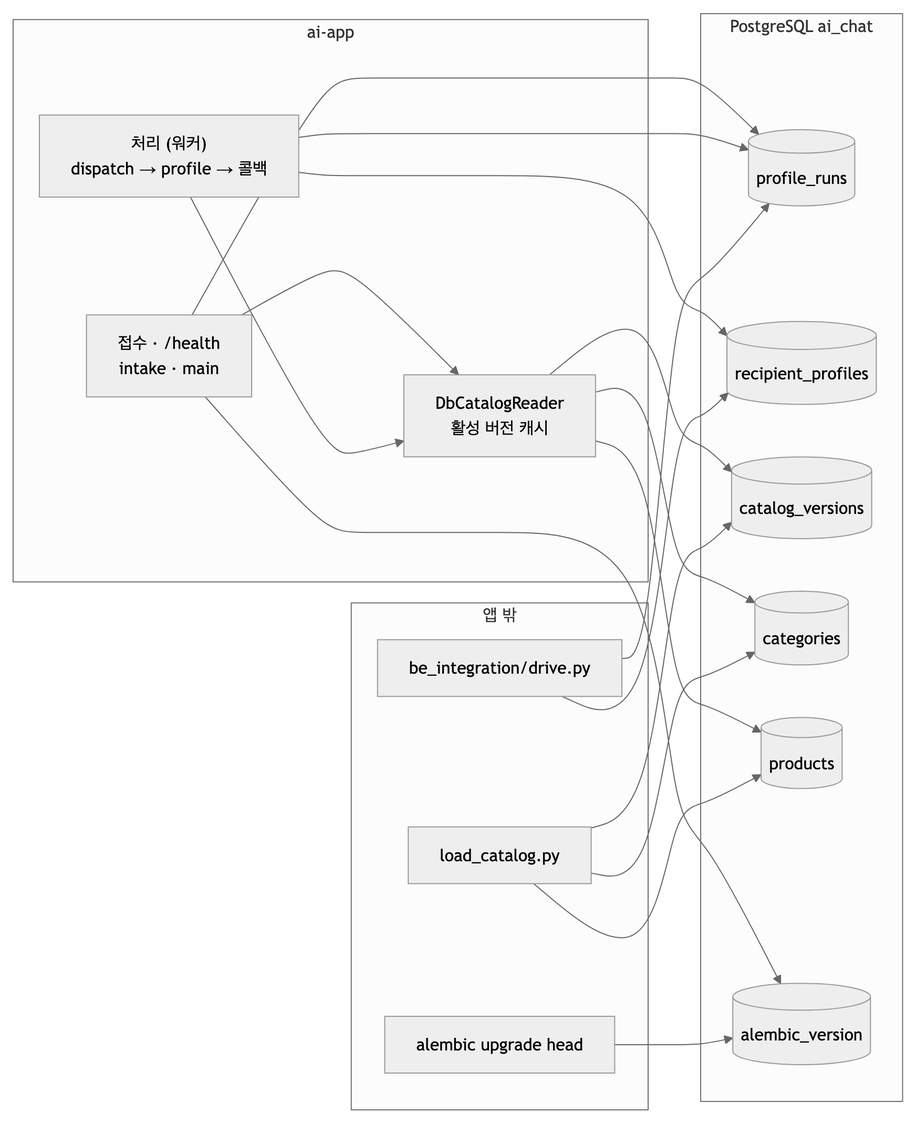
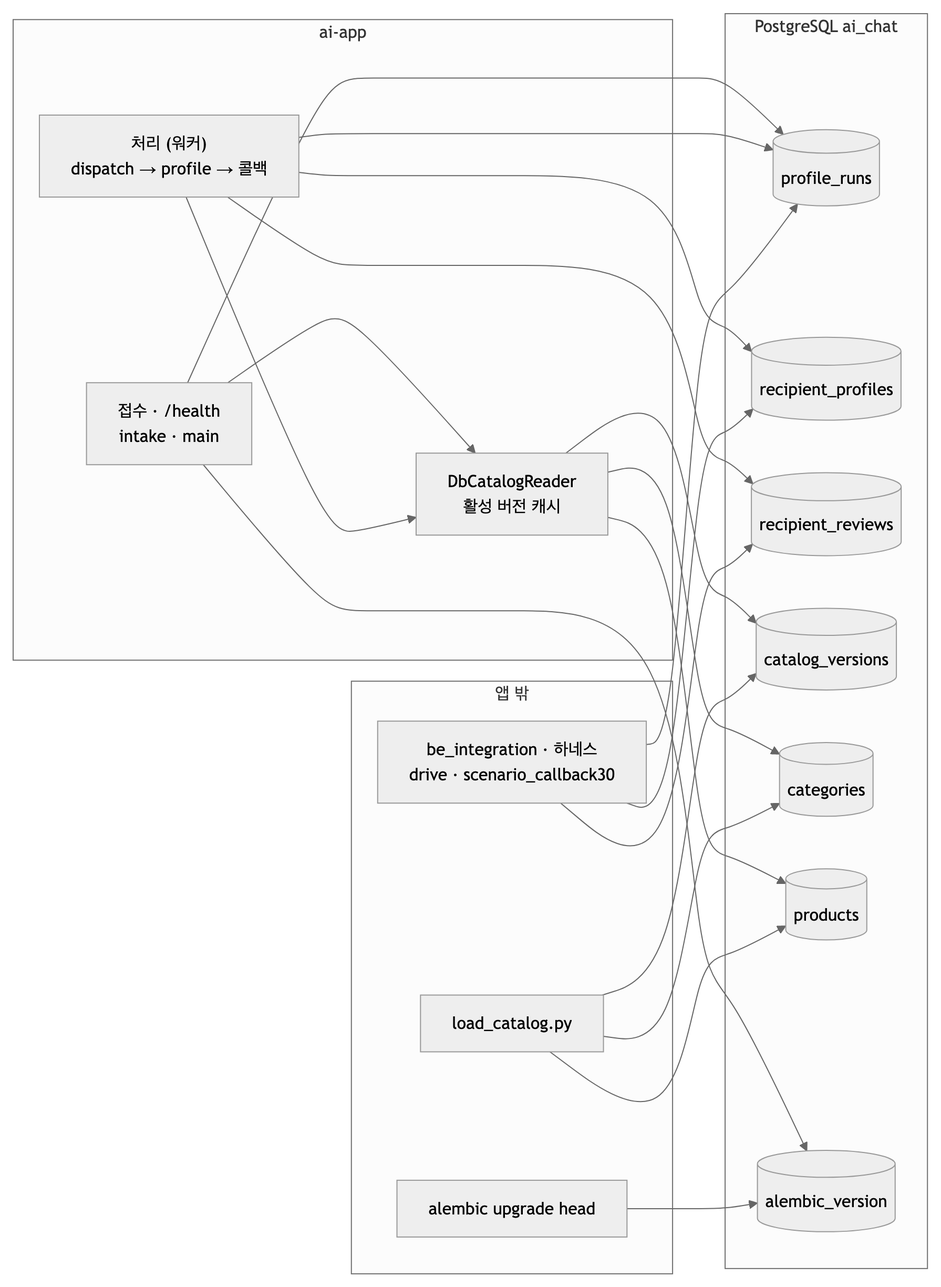
docs(profiling): 하네스 구조와 결과 · 로컬 LLM 서비스 경로 시험 · DB ERD 10-12 갱신
- 하네스 구조 · 판정 방식 그림과 결과 상세, 로컬 LLM(gemma4:12b · qwen3.5:9b) 서비스 경로 결과
- DB_ERD: 리뷰 표 포함 일곱 표, D 고르기 · 임베딩 기동 SELECT, 시험 도구별 수신자 번호대, 0006 필요
- 코드 안내서: 태그 추출 · 토큰 사용량 · tag_extract 로그 형식, 보고서 · 문서 목록 갱신

diff --git a/profiling/docs/하네스_구조와_결과_2026-10-12.md b/profiling/docs/하네스_구조와_결과_2026-10-12.md
@@ -1,0 +1,176 @@
+# 30개 콜백 검증 하네스 — 구조와 결과 (2026-10-12)
+
+| | |
+|---|---|
+| 대상 | AI 저장소 `profiling/` — `feat/v2-profiling-init` @ `a637e45` + 작업 트리(D 코어 · 태그 추출 · 리뷰한 상품 미추천 · 하네스 개선, **미커밋**) |
+| 하네스 | `tools/scenario_callback30/` — `run.py`(실행 · 검사 · 출력) · `verify_d.py`(D 독립 판정) · `scenarios.xlsx`(가상 사용자 10명 · 리뷰 · 태그 · 기대 45행) · `golden_d.json`(기준 파일) |
+| 이번 판에서 바뀐 것 | ① **D 독립 판정**(selection 을 부르지 않고 명세 수식으로) ② **기대값을 설정별로**(조건 · 등급 · 성격) ③ **리뷰한 상품 미추천** 검사 ④ 입력 변형 · 기준 파일 |
+| 결과 한 줄 | 세 설정 모두 **필수 검사 전부 통과**(태그 끔 448 · gemma4:12b 462 · qwen3.5:9b 462). 관찰(품질)은 gemma **44/44** · qwen **28/44** — 품질 차이가 계약 실패와 섞이지 않고 따로 보인다. 일부러 심은 D 버그 두 가지를 독립 판정이 **10/10 · 7/7** 잡았다(기존 재현성 검사는 둘 다 못 잡음) |
+
+---
+
+## 1. 구조
+
+<!-- fig: 01-하네스-구조 -->
+```mermaid
+flowchart LR
+  X["scenarios.xlsx<br/>사용자 · 리뷰 · 기대"]
+  R["run.py<br/>run_mode()"]
+  APP["앱 전체(TestClient)<br/>intake → Supervisor → profile()"]
+  LLM["태그 추출(선택)<br/>_SpyTagger → Ollama"]
+  EMB["임베딩(선택)<br/>ProductSearchEmbedding"]
+  BE["가짜 BE<br/>MockTransport · 7.7 기록"]
+  DB[("PostgreSQL<br/>실행 기록 · 프로필 · 리뷰")]
+  CK["검사<br/>check_run()"]
+  VD["D 독립 판정<br/>verify_d.verify()"]
+  G[("golden_d.json<br/>기준 파일")]
+  O["화면 + out/<br/>xlsx · json"]
+  X --> R --> APP
+  APP --> LLM
+  APP --> EMB
+  APP --> DB
+  APP -->|7.7| BE
+  BE --> CK
+  DB --> CK
+  R --> VD --> CK
+  G --> CK
+  CK --> O
+```
+
+![하네스 구조](assets/harness/01-하네스-구조.png)
+
+| 조각 | 하는 일 |
+|---|---|
+| `run_mode()` | 설정(태그 끔/켬 · 모델 · 임베딩)을 환경변수로 넣고 앱 전체를 띄운다. 사람마다 7.6 을 보내고, **진짜 `HttpBackendPort`가 보낸 7.7 요청**을 가짜 BE 가 받아 기록. 태그 추출기는 `_SpyTagger` 로 감싸 LLM 원출력을 기록(DB 엔 아직 태그 축 · 프롬프트판이 없어서 — 0006) |
+| `check_run()` | 사람 × 모드마다 검사를 모은다 — 아래 §2 |
+| `verify_d.verify()` | **`profiling.selection` 을 부르지 않고** 명세 수식(코어 공유 문서 §2 ⑤~⑧)만으로 콜백 30개를 판정 |
+| `golden_d.json` | 태그 끔 · D 의 콜백 30개(10명 × 2모드). 다르면 의도된 변경인지 사람이 본다(`--save-golden` 으로 갱신) |
+
+### 판정 방식 — 무엇이 무엇과 독립인가
+
+<!-- fig: 02-판정-방식 -->
+```mermaid
+flowchart TB
+  S["서비스가 보낸 30개<br/>(콜백)"]
+  I["독립 재계산<br/>점수 공식 · 소분류 편향"]
+  V["명세 판정 verify_d<br/>MMR · 채우기 · 상수"]
+  P["불변식<br/>비선호 · 상한<br/>중복 · 리뷰 상품"]
+  M["입력 변형<br/>결정성 · 비선호 추가"]
+  C["같은 코드 대조<br/>재현성 — 배선만"]
+  E["시나리오 기대<br/>조건 · 등급 · 성격"]
+  S --> I
+  S --> V
+  S --> P
+  S --> M
+  S --> C
+  S --> E
+```
+
+![판정 방식](assets/harness/02-판정-방식.png)
+
+## 2. 검사 목록
+
+| 묶음 | 검사 | 판정 방식 | 언제 |
+|---|---|---|---|
+| **자동(기본)** | 7.6 202 · 7.7 1회 · 경로 · 토큰 · 본문 계약(모르는 필드 금지) · 30개 · 중복 없음 · 카탈로그 · 재고 · 비선호(제외 0 / 감점 뒤에만 / D 는 모자랄 때만) · 한 소분류 ≤ 10 · 같은 모델 하나 · **리뷰한 상품 미추천** · 소분류 편향 독립 재계산 · 점수 공식 독립 재계산(오차 < 1e-9) · 저장 점수 · 리뷰 행 · 원문 미저장 · DELIVERED · 재현성(콜백 = 실행 기록 = `make_pool`) · (태그 켬) 저장 태그 = 원출력 재생성 | 독립 재계산 · 불변식 · (재현성만) 같은 코드 대조 | 언제나 |
+| **D 독립 판정** | ① 상수 = 명세(λ 0.7 · 한 소분류 10 · 태그당 50 · 유사도 2 · 특징 ½) ② **MMR 단계**: 고른 상품마다 그 시점 받아들일 수 있는 후보 중 MMR 최대 ③ **채우기 단계**: 점수 순서 · 상한 → 상한 없이 → 비선호 | 명세 판정 | D 일 때(② 는 태그 있을 때) |
+| **입력 변형** | 같은 입력 두 번 → 같은 30개 · 비선호 대분류 하나 추가 → 그 대분류 상품이 사라짐 | 관계 판정 | D 일 때(비선호가 이미 5개면 추가 생략) |
+| **기대 — 필수** | 계약(비선호 대분류 0 · 모드간 동일 · 순위 앞섬) · 별점(1~2점 소분류 30개 밖) · 회귀(태그 끔: 5점 소분류 상위 10 · 조회수순) | 시나리오 | 조건이 맞을 때 |
+| **기대 — 관찰** | 태그품질(태그 포함 · 제외 · 없음) · 취향(소분류 · 캐릭터 상품 개수) · 섞임(소분류 종수) · 회귀(기준 파일) | 시나리오 | 태그 켬(기준 파일은 태그 끔) |
+
+**등급:** 필수가 하나라도 실패하면 하네스 실패(종료 코드 1, 통합 시험 실패). 관찰은 보고만 — 모델 · 프롬프트 품질 비교용.
+
+## 3. 결과
+
+### 3.1 설정별 요약 (20건 = 10명 × 제외 · 감점)
+
+| 설정 | 필수 | 관찰 | 서버 처리 p75 · p90 · p95 · 최대 | 7.6 → 7.7 p95 |
+|---|---|---|---|---|
+| 태그 끔 | **448/448** | 20/20(기준 파일) | 17.9 · 18.4 · 19.0 · 19.2 ms | 23.1 ms |
+| gemma4:12b | **462/462** | **44/44** | 13.4 · 14.1 · 15.3 · 16.2 초 | 15.3 초 |
+| qwen3.5:9b | **462/462** | **28/44** | 6.6 · 6.8 · 7.2 · 7.9 초 | 7.2 초 |
+
+필수가 태그 켬에서 14개 많은 이유: MMR 단계 독립 판정(태그 있는 7명 × 2모드).
+
+### 3.2 검사 묶음별
+
+| 묶음 | 태그 끔 | gemma4:12b | qwen3.5:9b |
+|---|---|---|---|
+| 자동(기본) | 330/330 | 348/348 | 348/348 |
+| D 독립 · 상수 | 20/20 | 20/20 | 20/20 |
+| D 독립 · MMR 단계 | — | 14/14 | 14/14 |
+| D 독립 · 채우기 단계 | 20/20 | 20/20 | 20/20 |
+| 입력 변형 | 38/38 | 38/38 | 38/38 |
+| 필수 · 계약 | 10/10 | 10/10 | 10/10 |
+| 필수 · 별점 | 12/12 | 12/12 | 12/12 |
+| 필수 · 회귀(태그 끔) | 18/18 | — | — |
+| 관찰 · 태그품질 | — | **26/26** | **16/26** |
+| 관찰 · 취향 | — | **16/16** | **10/16** |
+| 관찰 · 섞임 | — | 2/2 | 2/2 |
+| 관찰 · 회귀(기준 파일) | 20/20 | — | — |
+
+### 3.3 사람별 (감점 모드)
+
+| 사람 | 태그 끔: 종수 / 최다 | gemma4:12b 태그 | 종수 / 최다 | qwen3.5:9b 태그 | 종수 / 최다 |
+|---|---|---|---|---|---|
+| U01 뷰티 | 10 / 향수 10 | 특징:은은한 향 · 향수 | 5 / 향수 10 | 특징:은은한 향 · 특징:산뜻함 | 9 / 향수 10 |
+| U02 디지털 | 11 / 모바일·PC 10 | 특징:노이즈캔슬링 · 헤드폰 · 노트북 거치대 | 8 / 영상·음향 10 | 특징:노이즈캔슬링 · 특징:튼튼함 | 10 / 영상·음향 10 |
+| U03 신생아 | 16 / 출산·육아 10 | 출산선물세트 · 특징:부드러운 소재 · 특징:백색소음 | 13 / 출산·육아 10 | 특징:부드러운 소재 · 특징:잠자기 좋은 기능 | 13 / 출산·육아 5 |
+| U04 캐릭터 | 3 / 스포츠·레저 10 | IP:춘식이 · IP:한교동 · IP:산리오 | **17** / 생활가전 4 | IP:춘식이 · IP:한교동 | 15 / 정육·수산 4 |
+| U05 홈카페 | 11 / 커피·차 10 | 특징:달달한 디저트 · 커피 · 케이크 · 차 선물세트 | 11 / 커피·차 10 | 디저트 · 커피 · 차 | 9 / 커피·차 10 |
+| U06 콜드 스타트 | 21 / 3 | (없음) | 21 / 3 | 특징:실용적 | 15 / 6 |
+| U07 까다로운 | 21 / 3 | (없음) | 21 / 3 | (없음) | 21 / 3 |
+| U08 비선호 꽉 | 15 / 6 | (LLM 미호출) | 15 / 6 | (LLM 미호출) | 15 / 6 |
+| U09 비선호 vs 리뷰 | 21 / 3 | 브랜드:조말론런던 · 향수 | 15 / **홈프래그런스 9** | **(없음 — 놓침)** | 21 / 3 |
+| U10 엣지 | 17 / 영상·음향 10 | 브랜드:소니 · 헤드폰 | 8 / 영상·음향 10 | 특징:노이즈캔슬링 | 10 / 영상·음향 10 |
+
+모든 실행에서 리뷰한 상품 0개 · 비선호 0개 · 한 소분류 ≤ 10 · 같은 모델 중복 0.
+
+### 3.4 qwen3.5:9b 관찰 실패(두 모드 같음 — 8종 × 2)
+
+| 사람 | 기대 | 실제 |
+|---|---|---|
+| U01 | 태그에 "향수" | 은은한 향 · 산뜻함 — 품목 없음 |
+| U02 | 태그에 "노트북 · 거치대" | 노이즈캔슬링 · 튼튼함 |
+| U02 | 모바일·PC 30개 중 3개 이상 | **0개** |
+| U03 | 태그에 출산 · 아기 · 신생아 · 유아 | 부드러운 소재 · 잠자기 좋은 기능 |
+| U03 | 출산·육아 30개 중 8개 이상 | 5개 |
+| U09 | 태그에 향수 · 조말론 | **태그 없음** |
+| U09 | 홈프래그런스 5개 이상 | 0개(태그가 없어 태그 없는 D 로) |
+| U10 | 태그에 헤드폰 · 소니 | 노이즈캔슬링 |
+
+공통 원인: 품목 · 브랜드 태그를 내지 않고 범용 특징만 냄 → 5점 신호를 잃음(로컬 LLM 시험 결과 §4.3 과 같음).
+
+## 4. 하네스가 버그를 잡는가 — 일부러 심어 보기
+
+| 심은 버그(코어는 그대로, 실행 중에만 바꿈) | 독립 판정 | 기존 재현성(콜백 = `make_pool`) |
+|---|---|---|
+| 채우기 순서 버그 — 결과의 21 · 22번째를 바꿈 | **10/10 잡음**(채우기 단계) | 10/10 통과 — 못 잡음(하네스도 같은 코드를 불러서 같이 틀림) |
+| MMR 버그 — 이미 고른 것과의 중복 감점을 안 함(상수는 그대로) | **7/7 잡음**(MMR 단계, 태그 있는 사람 전부) | 통과 — 못 잡음 |
+
+## 5. 판단과 남은 한계
+
+- **D 의 "옳음"을 이제 독립적으로 판정한다** — 점수 계산(독립 재계산) + 고르는 순서(명세 판정) + 성질(불변식 · 입력 변형). 재현성 검사는 "배선이 끊기지 않았다"는 뜻으로만 남는다.
+- **품질과 계약이 분리됐다** — 모델 · 프롬프트를 바꿔도 필수가 통과하면 서비스는 안전하고, 관찰 점수로 품질을 비교한다.
+- 남은 한계
+
+| 한계 | 영향 | 다음 |
+|---|---|---|
+| 저장 태그 검사가 같은 검증기를 두 번 돈다 | 검증기 자체의 버그는 못 잡음 | 태그품질 기대(관찰)가 일부 보완 · 0006 뒤 DB 값과 직접 대조 |
+| "비선호로 채우기" · "상한 완화" 경로는 실제 카탈로그 시나리오에서 안 일어남 | 그 경로는 단위 시험만 | 작은 카탈로그 모드 또는 단위 시험 담당으로 명시 |
+| LLM 실패 대체 경로가 하네스에 없음 | 단위 시험(가짜 추출기)만 | `--tagger-fail` 옵션 |
+| 하네스와 통합 시험이 같은 시험용 수신자 번호대 | 동시에 돌리면 서로 지움 | 따로 실행(번호대 분리는 다음) |
+| 관찰 문턱이 gemma 한 번 실측 기준 | 문턱의 근거가 약함 | 사람 검토 뒤 필수로 승격 |
+
+## 6. 재현
+
+```bash
+cd profiling
+uv run python -m tools.scenario_callback30.run                         # 태그 끔 — 448 필수 + 기준 파일 비교
+uv run python -m tools.scenario_callback30.run --tagger ollama --tagger-model gemma4:12b --embedding-dir ../product-search
+uv run python -m tools.scenario_callback30.run --tagger ollama --tagger-model qwen3.5:9b --embedding-dir ../product-search
+uv run python -m tools.scenario_callback30.run --save-golden           # 의도된 변경 뒤 기준 파일 갱신
+uv run pytest tests/integration/test_scenario_callback30.py -q          # 태그 끔 실행을 시험으로(관찰은 실패로 안 셈)
+```
+
+원자료: `tools/scenario_callback30/out/시나리오_결과_20261012_151213`(끔) · `151539`(gemma) · `151805`(qwen) `.{json,xlsx}`(커밋 안 함).

diff --git a/profiling/docs/로컬LLM_서비스경로_시험결과_2026-10-12.md b/profiling/docs/로컬LLM_서비스경로_시험결과_2026-10-12.md
@@ -1,0 +1,116 @@
+# 로컬 LLM 서비스 경로 시험 결과 (2026-10-12)
+
+| | |
+|---|---|
+| 무엇 | 로컬 LLM 태그 추출을 **서비스 코드 안에서** 돌린 첫 시험 — 7.6 → `pipeline.profile()` → LLM 태그 추출(Ollama) → 검증기 → 풀 고르기 D(임베딩 단계 켜짐) → DB 저장 → 7.7 |
+| 대상 코드 | `feat/v2-profiling-init` @ `a637e45` + 작업 트리(D 코어 · `tagging` · `llm` · `embedding` 어댑터, **미커밋**) |
+| 하네스 | 30개 콜백 검증 `tools/scenario_callback30` — `--tagger ollama --tagger-model <모델> --embedding-dir product-search` (앱 전체 · 진짜 7.7 요청) |
+| 모델 | 태그 추출 **`gemma4:12b`**(Q4_K_M) · **`qwen3.5:9b`** — Ollama · temperature 0 · seed 42 · 생각 끔 · 프롬프트 `tag4-2fc950d4` / 임베딩 `jina-embeddings-v5-text-nano-retrieval`(q4f16, CC BY-NC) |
+| 기준 | 같은 하네스, 태그 추출 끔(D 가 태그 없이 — 비선호 하드 제외 · 한 소분류 최대 10 · 모델 코드 중복 제거) |
+| 결과 한 줄 | **gemma4:12b 는 368/368 전부 통과**(시나리오 기대 포함), 서버 처리 p95 15.0초. **qwen3.5:9b 는 자동 검사는 전부 통과했지만 시나리오 기대 6개 실패** — 태그가 범용 특징 위주라 5점 소분류 신호를 잃었다. 서비스 경로의 태그는 실험 도구 추출과 **완전히 같다**(같은 프롬프트 · 결정성) |
+
+---
+
+## 1. 무엇을 만들었나
+
+| 조각 | 위치 | 역할 |
+|---|---|---|
+| 프롬프트 · 검증기 | `src/profiling/tagging.py` | 실험 도구의 프롬프트(해시 `2fc950d4`)를 코어로 옮김 — 도구와 서비스가 한 구현. `build_prompt` 가 만든 프롬프트가 10-12 로컬 모델 비교 때와 10/10 동일 |
+| LLM 어댑터 | `src/profiling/llm.py` `OllamaTagExtractor` | `ports.TagExtractor` 구현. 앱 시작 때 모델을 올려 둠(warm_up) |
+| 임베딩 어댑터 | `src/profiling/embedding.py` `ProductSearchEmbedding` | `ports.EmbeddingIndex` 구현 — product-search 상품 벡터 + Node 질의 인코더, BE 번호로 연결 |
+| 파이프라인 | `pipeline.profile()` · `_extract_tags()` | 취향 · 리뷰가 있으면 LLM 한 번 → 검증기 → 태그를 D 에 넘김. **LLM 이 실패해도 요청은 계속**(태그 없이 D). 원문은 로그에 남지 않음 |
+| 설정 | `PROFILING_TAGGER`(none · ollama) · `TAGGER_MODEL` · `OLLAMA_URL` · `TAGGER_TIMEOUT_S` · `EMBEDDING_DIR` | **기본은 꺼짐** — 켜지 않으면 동작이 이전과 같다 |
+
+## 2. 결과표 — 요약(20건 = 10명 × 제외 · 감점)
+
+| 구성 | 검사 | 태그 있는 사람 | 태그 수 | 소분류 종수 평균(태그 있는 사람) | 한 소분류 최다 | 비선호 | 끔과 겹침 평균(/30) | 서버 처리 p75 · p90 · p95 |
+|---|---|---|---|---|---|---|---|---|
+| 끔(태그 없음) | 350/350 | 0 | 0 | — | 10 | 0 | 30 | 13 · 15 · 16 ms |
+| **gemma4:12b** | **368/368** | 7 | 19 | 11.0 | 10 | 0 | **7.3** | **13.5 · 14.6 · 15.0 초** |
+| qwen3.5:9b | 362/368 | 7 | 13 | 11.9 | 10 | 0 | 4.3 | 6.1 · 6.4 · 6.4 초 |
+
+검사 368 = 기본 350 + "저장된 태그 = 같은 원출력을 검증기로 다시 만든 태그" 18건(LLM 이 불린 9명 × 2모드).
+
+![섞임 · 겹침](assets/report/12-로컬LLM-서비스-섞임.png)
+
+## 3. 결과표 — 사람별(감점 모드)
+
+| 사람 | gemma4:12b 태그 | 종수 / 최다 | 끔과 겹침 | qwen3.5:9b 태그 | 종수 / 최다 | 끔과 겹침 |
+|---|---|---|---|---|---|---|
+| U01 뷰티 | 특징:은은한 향 · 향수 | 5 / 향수 10 | 12 | 특징:은은한 향 · 특징:산뜻함 | 9 / 향수 10 | 7 |
+| U02 디지털 | 특징:노이즈캔슬링 · 헤드폰 · 노트북 거치대 | 8 / 모바일·PC 10 | 4 | 특징:노이즈캔슬링 · 특징:튼튼함 | 11 / 영상·음향 10 | 3 **✗** |
+| U03 신생아 | 출산선물세트 · 특징:부드러운 소재 · 특징:백색소음 | 13 / 출산·육아 10 | 7 | 특징:부드러운 소재 · 특징:잠자기 좋은 기능 | 13 / 출산·육아 5 | 1 **✗** |
+| U04 캐릭터 | IP:춘식이 · IP:한교동 · IP:산리오 | **17** / 차량용품 4 | 4 | IP:춘식이 · IP:한교동 | 15 / 패션소품 4 | 4 |
+| U05 홈카페 | 특징:달달한 디저트 · 커피 · 케이크 · 차 선물세트 | 11 / 커피·차 10 | 13 | 디저트 · 커피 · 차 | 9 / 커피·차 10 | 4 |
+| U06 콜드 스타트 | (없음) | 21 / 3 | 30 | 특징:실용적 | 15 / 6 | 1 **✗** |
+| U07 · U08 | (없음 — U08 은 LLM 미호출) | 21 · 15 | 30 | (없음) | 21 · 15 | 30 |
+| U09 비선호 vs 리뷰 | 브랜드:조말론런던 · 향수 | 15 / 홈프래그런스 9 | 1 | **(없음 — 놓침)** | 21 / 3 | 30 |
+| U10 엣지 | 브랜드:소니 · 헤드폰 | 8 / 영상·음향 10 | 10 | 특징:노이즈캔슬링 | 11 / 영상·음향 10 | 10 |
+
+✗ = 시나리오 기대 실패(제외 · 감점 모드 각각 → 모두 6개).
+
+![서버 처리 시간](assets/report/13-로컬LLM-서비스-시간.png)
+
+## 4. 분석
+
+### 4.1 서비스 경로가 실험과 같은가 — 같다
+
+- **태그가 실험 도구 추출과 완전히 같다**(gemma 19개 · qwen 13개, 사람별 동일). 프롬프트가 같고(10/10) temperature 0 · seed 고정이라, 도구로 본 결과를 서비스가 그대로 재현한다.
+- 저장된 프로필 태그 = 원출력을 검증기로 다시 만든 태그 — 18/18(두 모델 모두).
+- **콜백 30 = 실행 기록 30 = 같은 입력으로 코드가 고른 30** — 40/40. LLM 이 끼어도 같은 입력 = 같은 결과(재전송 · 중복 판정 전제)가 지켜진다.
+
+### 4.2 gemma4:12b — 품질은 기대대로, 대가는 시간과 인기
+
+- **시나리오 기대 전부 통과** — 5점 소분류가 상위 10 안(U01 · U02 · U04 · U05), 1~2점 소분류 30개 밖, 비선호 0, U09 는 뷰티 0 · 생활 향 제품 9.
+- **태그가 결과를 크게 바꾼다** — 끔과 겹침 평균 7.3/30. U04 는 IP 태그로 소분류 3종 → 17종(차량용품 · 패션소품 등에 흩어진 캐릭터 상품).
+- **대신 좁아지는 사람도 있다** — U01 은 10종 → 5종. 태그 둘(향수 · 은은한 향)이 모두 향 쪽이라 후보가 향수 · 바디 · 홈프래그런스에 몰린다. 취향 반영 ↑ · 다양성 ↓ 의 교환.
+- **인기가 내려간다** — 30개의 조회수 백분위 평균이 끔 0.94~1.00 → gemma 0.71~0.93. 후보가 태그 근처로 한정되기 때문(실험 결과와 같은 경향).
+
+### 4.3 qwen3.5:9b — 빠르지만 신호를 잃는다
+
+- **품목 · 브랜드 태그가 거의 없다**(13개 중 특징 8). "튼튼함" · "산뜻함" · "잠자기 좋은 기능"처럼 거의 모든 상품에 맞는 특징이 질의가 되자,
+  - U02: 5점 준 모바일·PC 가 상위 10 에서 사라짐(✗)
+  - U03: 출산·육아가 상위 10 중 3개로(기대 5개 이상, ✗) — 소분류 종수도 끔보다 적고 출산·육아 최다도 5 로 낮아졌다
+  - U06: "실용적" 하나로 30개 중 29개가 바뀜(✗ — 이 기대는 "태그 없는 콜드 스타트 = 조회수순"을 전제로 썼다. 모호한 태그가 생긴 것 자체가 문제)
+- **U09 를 놓쳐** 태그 없이 돌았다 — 결과는 끔과 같다(뷰티 0 은 지켜짐).
+- 시간은 gemma 의 절반(p95 6.4초).
+
+### 4.4 시간 · 운영
+
+| 구간 | 값 | 뜻 |
+|---|---|---|
+| 서버 처리(LLM 포함) | gemma p95 15.0초 · qwen p95 6.4초 · 끔 16ms | 약 1,000배. 7.6 은 비동기라 BE 202(수 ms)는 그대로 |
+| LLM 미호출 | U08(입력 없음) 0.0초 | 취향 · 리뷰가 없으면 LLM 을 부르지 않는다 |
+| 출력이 짧을 때 | U06 · U07 2~4초 | 시간은 출력 토큰 수에 비례(10-12 측정) |
+| 처리량 | 슬롯 1개면 사람당 ~13초 → 시간당 약 270명 | 몰리면 큐(QUEUE_MAX)가 찬다 — 슬롯 수 · 큐 상한 · BE PENDING 타임아웃(10분)과 같이 봐야 함 |
+
+### 4.5 이번에 찾은 것
+
+| # | 내용 | 원인 | 처리 |
+|---|---|---|---|
+| S1 | 첫 실행에서 하네스 재현성 검사 8건 실패 | **DB 프로필에 `prompt_version` · 태그 축(axes)이 저장되지 않는다** — 10-08 결정으로 0006(LLM 단계)으로 미룬 열. 하네스가 저장 프로필에서 태그를 다시 만들 때 특징 축이 사라져 가중이 달라짐 | 하네스는 LLM 원출력을 기록해 같은 검증기로 다시 만들게 고침(→ 통과). **서비스 쪽 공백은 그대로** — 0006 마이그레이션 필요(결정 사항) |
+| S2 | qwen 시나리오 기대 6개 실패 | 4.3 — 범용 특징 태그 | 프롬프트 보강 또는 gemma 선택 |
+| S3 | 시나리오 기대 일부가 "태그 없는 세계" 전제 | U06 조회수순 · U03 상위 10 중 5개 등은 LLM 이전에 썼다 | LLM 을 켠 기준선이 정해지면 기대를 나눠 적기(태그 끔 / 켬) |
+
+## 5. 결론과 다음
+
+1. **서비스에 LLM 태그 추출을 붙이는 구조는 동작한다** — 결정성 · 계약 · 저장 · 실패 시 대체까지 시험으로 확인.
+2. **모델은 gemma4:12b 를 기본으로 권한다**(설정 기본값도 gemma4:12b). qwen3.5:9b 는 빠르지만 품목 · 브랜드를 놓쳐 추천이 사용자의 5점 신호에서 멀어진다.
+3. 다음:
+   - **0006 마이그레이션** — `prompt_version` · 4축 태그(axes) 저장(채팅이 태그 축을 알려면 필요). 공유 로컬 DB 를 콜백 브랜치도 쓰므로 순서 협의 필요
+   - **프롬프트 보강** — "리뷰 상품의 품목 · 브랜드를 먼저" · "거의 모든 상품에 맞는 특징은 내지 않는다"(U06 · qwen) → 같은 하네스로 재측정
+   - **운영 값** — 슬롯 수 · `TAGGER_TIMEOUT_S`(120초) · 큐 상한을 LLM 시간 기준으로 다시
+   - **임베딩 모델 라이선스(CC BY-NC)** 확인 — 서비스 반영 전 필수
+
+## 6. 재현
+
+```bash
+cd profiling
+uv run python -m tools.scenario_callback30.run                                        # 끔(기준)
+uv run python -m tools.scenario_callback30.run --tagger ollama --tagger-model gemma4:12b \
+  --embedding-dir ../product-search
+uv run python -m tools.scenario_callback30.run --tagger ollama --tagger-model qwen3.5:9b --embedding-dir ../product-search
+uv run --with matplotlib python -m tools.bench.llm_service_report <끔.json> <gemma.json> <qwen.json>   # 이 문서의 표 · 그래프
+```
+
+원자료: `tools/scenario_callback30/out/시나리오_결과_20261012_110152 · 110516 · 110647.{json,xlsx}` · `tools/bench/out/llm_service_20261012_110710.json`(커밋 안 함).

diff --git a/profiling/docs/문서_목록.md b/profiling/docs/문서_목록.md
@@ -53,7 +53,7 @@ README 에서 링크를 따라 닿는 순서. 같은 문서는 처음 나온 자
   - [docs/부하_시험_결과_2026-09-28.md](부하_시험_결과_2026-09-28.md) — 부하 시험 결과 — 2026-09-28 (기준선 §1~§9 → DB 왕복 줄이기 §10·§11 → Supervisor 수정 after §12)
     - [docs/파이프라인_지도/2026-09-27.md](파이프라인_지도/2026-09-27.md) — 파이프라인 지도 — 2026-09-27 (BE 계획 대조 · 같은 번호 재시도 · 콜백 즉시 재시도)
   - [docs/시퀀스_전체.md](시퀀스_전체.md) — 프로파일링 전체 시퀀스 (2026-09-28 구현 기준)
-  - [docs/DB_ERD.md](DB_ERD.md) — AI DB 표 구조 (ERD) — 2026-09-28
+  - [docs/DB_ERD.md](DB_ERD.md) — AI DB 표 구조 (ERD) — 2026-09-28 (10-12 갱신)
   - [docs/BE_전달_2026-09-27.md](BE_전달_2026-09-27.md) — AI ↔ Backend 연동 전달본 — 2026-09-27
     - [docs/BE_연동_필드표_v2.md](BE_연동_필드표_v2.md) — BE ↔ AI 연동 필드표 v2 — 7.9 상품 전체 export (2026-09-22 작성 · 2026-09-29 갱신)
   - [docs/BE_연동_필드표.md](BE_연동_필드표.md) — BE ↔ AI 연동 필드표 — 색인 (v1 · v2 · v3)
@@ -61,6 +61,8 @@ README 에서 링크를 따라 닿는 순서. 같은 문서는 처음 나온 자
   - [docs/프로파일링_코어_시험_결과보고서_2026-10-12.md](프로파일링_코어_시험_결과보고서_2026-10-12.md) — 프로파일링 코어 시험 결과 보고서 (2026-10-12)
     - [docs/임베딩_비교_실험_결과_2026-10-12.md](임베딩_비교_실험_결과_2026-10-12.md) — 임베딩 비교 실험 — 결과 (2026-10-12)
     - [docs/파이프라인_지도/2026-10-11.md](파이프라인_지도/2026-10-11.md) — 파이프라인 지도 — 2026-10-11 (v2 2~4단계: 별점 편향 · 비선호 스위치 · 리뷰 저장 — 원문 없이)
+  - [docs/로컬LLM_서비스경로_시험결과_2026-10-12.md](로컬LLM_서비스경로_시험결과_2026-10-12.md) — 로컬 LLM 서비스 경로 시험 결과 (2026-10-12)
+  - [docs/하네스_구조와_결과_2026-10-12.md](하네스_구조와_결과_2026-10-12.md) — 30개 콜백 검증 하네스 — 구조와 결과 (2026-10-12)
   - [docs/파이프라인_지도/README.md](파이프라인_지도/README.md) — 파이프라인 지도 — 갱신 기록
     - [docs/파이프라인_지도/2026-09-25.md](파이프라인_지도/2026-09-25.md) — 파이프라인 지도 — 2026-09-25 (접수 단계 중복 판정)
     - [docs/파이프라인_지도/2026-09-23.md](파이프라인_지도/2026-09-23.md) — 파이프라인 지도 — 2026-09-23 (구조 평탄화 + 저장소 DB 전용화)

diff --git a/profiling/README.md b/profiling/README.md
@@ -53,6 +53,8 @@ Backend가 수신자의 비선호 카테고리·취향 문장·최근 리뷰를 
 | [docs/BE_전달_2026-09-27.md](docs/BE_전달_2026-09-27.md) | **BE 담당자 전달본** — 이 한 장으로 연동 구현 가능 (필드·상태·재전송·트랜잭션·확인 요청) |
 | [docs/BE_연동_필드표.md](docs/BE_연동_필드표.md) | BE 전달본 색인 — v1(7.6 세 필드 · 7.7 · `profileStatus` 생애주기 · 시퀀스 5장) · v2(7.9 export) · v3(취향·리뷰) |
 | [docs/프로파일링_코어_시험_결과보고서_2026-10-12.md](docs/프로파일링_코어_시험_결과보고서_2026-10-12.md) | **시험 결과 보고서(10-12)** — 자동 시험 269 · 30개 콜백 검증 300/300 · 성능 · 독차지 원인 · 임베딩 대안(S0 vs A~D) 비교와 확정안(λ 0.7 · 소분류 ≤ 10) · 태그 추출 모델 비교(claude-opus-5-5 · gemma4:12b · qwen3.5:9b) · 시간 백분위(p75~p99) · GC 꼬리 지연 해결(gc.freeze) · **이상 결과 27건과 원인** · 타당성 위협 (그래프 11장) |
+| [docs/로컬LLM_서비스경로_시험결과_2026-10-12.md](docs/로컬LLM_서비스경로_시험결과_2026-10-12.md) | **로컬 LLM 서비스 경로 시험(10-12)** — 7.6 → LLM 태그 추출(Ollama) → 풀 고르기 D(임베딩) → 7.7 을 앱 전체로. gemma4:12b 368/368 · qwen3.5:9b 기대 6개 실패 · 서버 처리 p95 15초/6초 · 0006(prompt_version · 축 저장) 필요 |
+| [docs/하네스_구조와_결과_2026-10-12.md](docs/하네스_구조와_결과_2026-10-12.md) | **30개 콜백 검증 하네스 — 구조와 결과(10-12)** — 구조 · 판정 방식 그림 · 검사 목록 · D 독립 판정(명세 수식, 버그를 심어 10/10 · 7/7 확인) · 기대값 조건 · 등급 · 설정별 결과(태그 끔 448 · gemma 462 + 관찰 44/44 · qwen 462 + 관찰 28/44) · 남은 한계 |
 | [docs/파이프라인_지도/](docs/파이프라인_지도/README.md) | 날짜별 갱신 기록 — 그림 스냅샷 · 단계별 함수 · 바뀐 것 · **다음 해야 할 일(인수인계)**. 규칙은 그 폴더 README |
 | [docs/문서_목록.md](docs/문서_목록.md) | **문서 검토 트리 + 최신성** — README 에서 링크로 닿는 순서(스크립트가 만듦)와 문서마다 코드와 맞는지 |
 | [docs/issues/](docs/issues/README.md) | 발견한 문제 기록 — 발견 시각별 폴더(문서 + 그림). 이슈·트러블슈팅으로 그대로 옮긴다 |

diff --git a/profiling/docs/임베딩_추천_설계안_2026-10-12.md b/profiling/docs/임베딩_추천_설계안_2026-10-12.md
@@ -7,6 +7,7 @@
 | 사용자 제안(10-12) | 점수식 대신 상품마다 태그를 달아 임베딩, 사용자 정보에서 뽑은 태그도 임베딩 → 60개 찾고 중복 제거 → 30개 |
 | 이 문서의 안 | 제안을 받아 **"임베딩은 후보 고르기, 코드 점수는 순서 정하기, MMR 은 섞기"** 로 나눈다 |
 | **2차 갱신(10-12)** | 사용자 제안 "비선호를 완전히 뺀 상태에서 검색" → **D 안**(§6). 지금 추천안은 D |
+| **코어 반영(10-12)** | `profiling/selection.py` `select_pool` + `pipeline.make_pool` · 설정 `POOL_STRATEGY=d`(기본). 태그가 아직 없어 ①~③(비선호 하드 제외 · 한 소분류 최대 10 · 모델 코드 중복 제거)만 동작 — 그것만으로 시나리오 U01 2 → 10종 · U03 1 → 16종 · U10 1 → 17종. 임베딩 단계는 `ports.EmbeddingIndex` 어댑터 + 태그 추출 뒤 |
 
 ---
 
